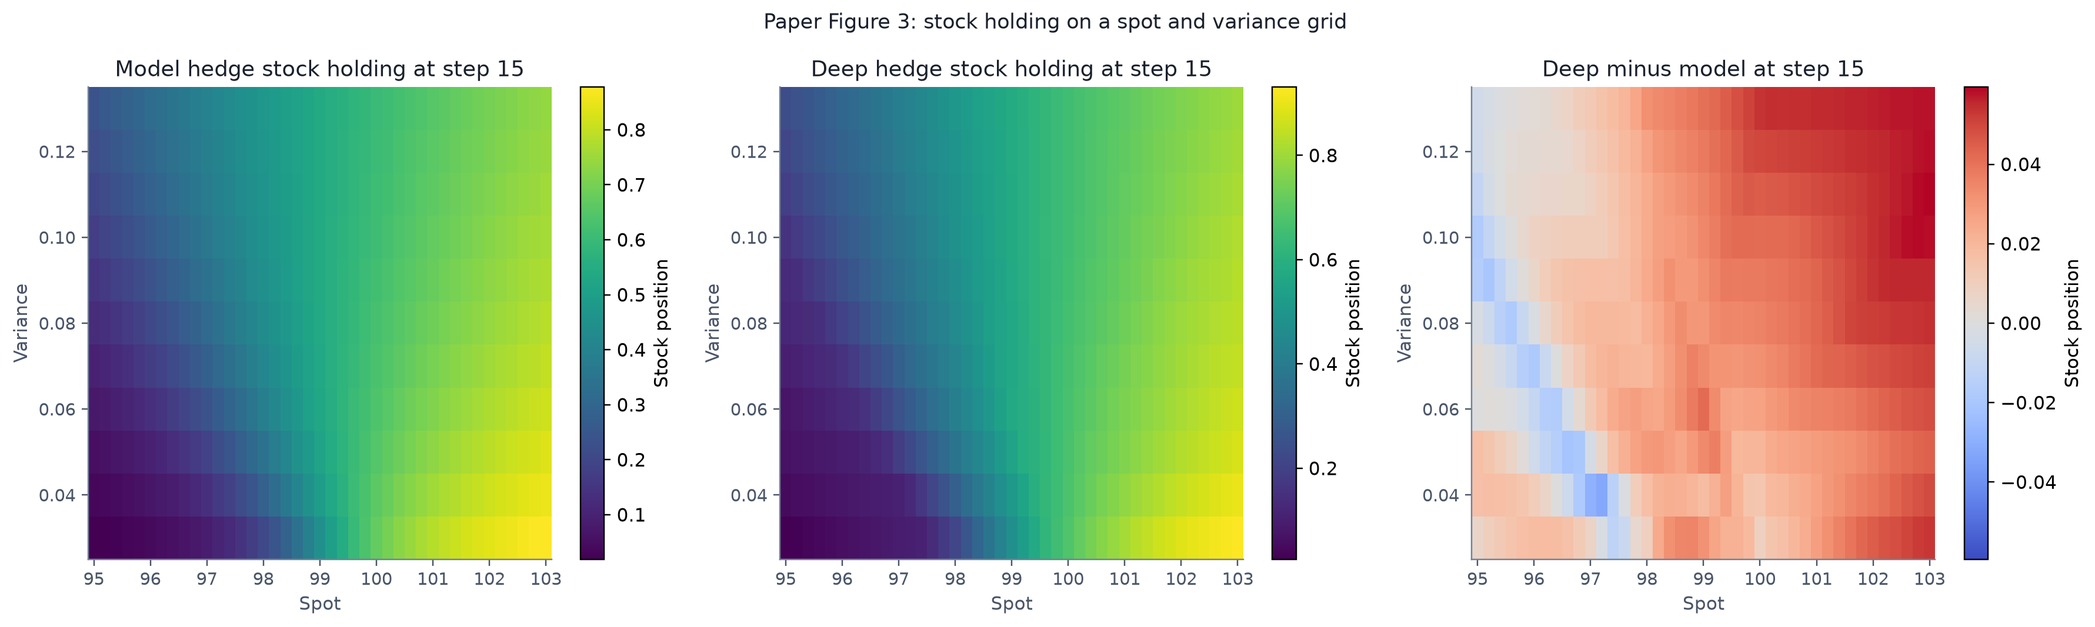
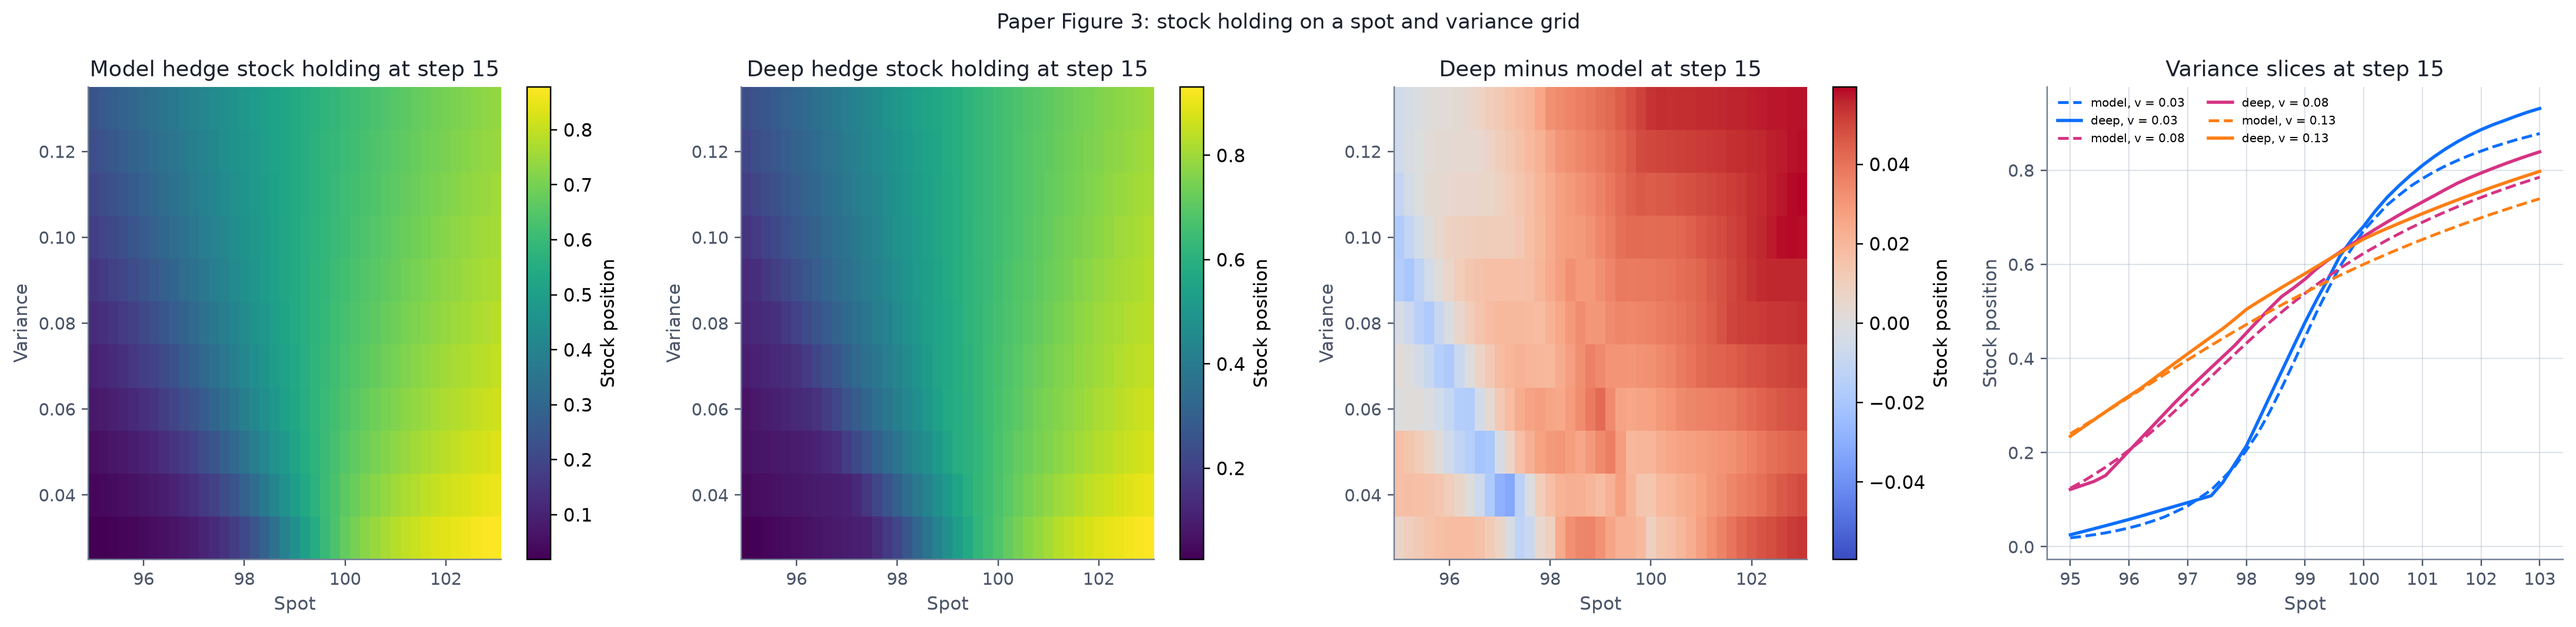
Make Figure 3 match its documented four panel layout
plot_heston_fig3 drew three panels while plot_heston_fig3_from_file drew
four, so the committed PNG and the JSON redraw disagreed and the
documented variance slice panel was missing from the tracked figure.
Both paths now draw the same four panels.

Correct the Figure 3 inventory row and the p_0 gap values, which still
quoted the pre-thread-pinning surface.

diff --git a/src/visualize.py b/src/visualize.py
@@ -1185,13 +1185,13 @@ def plot_heston_fig3(
             model_delta[i, j] = hedge._bilinear(
                 table, np.array([s_grid[i]]), np.array([v_grid[j]])
             )[0]
-    fig, axes = plt.subplots(1, 3, figsize=(16.4, 4.9))
+    fig, axes = plt.subplots(1, 4, figsize=(20.0, 4.9))
     panels = (
         (model_delta, "Model hedge stock holding", "viridis"),
         (deep_delta, "Deep hedge stock holding", "viridis"),
         (deep_delta - model_delta, "Deep minus model", "coolwarm"),
     )
-    for ax, (values, title, cmap) in zip(axes, panels):
+    for ax, (values, title, cmap) in zip(axes[:3], panels):
         if title.startswith("Deep minus"):
             lim = float(np.max(np.abs(values))) or 1.0
             image = ax.pcolormesh(s_grid, v_grid, values.T, cmap=cmap, shading="auto",
@@ -1203,6 +1203,21 @@ def plot_heston_fig3(
         ax.set_ylabel("Variance")
         ax.set_title(f"{title} at step {step}")
         _style(ax)
+    # Small multiples make the modest variance effect readable on the heatmap scale
+    ax = axes[3]
+    levels = (0.03, 0.08, 0.13)
+    colours = ("#0d6efd", "#d63384", "#fd7e14")
+    j_at = [int(np.argmin(np.abs(v_grid - level))) for level in levels]
+    for level, colour, j in zip(levels, colours, j_at):
+        ax.plot(s_grid, model_delta[:, j], color=colour, linewidth=1.6, linestyle="--",
+                label=f"model, v = {v_grid[j]:.2f}")
+        ax.plot(s_grid, deep_delta[:, j], color=colour, linewidth=1.8,
+                label=f"deep, v = {v_grid[j]:.2f}")
+    ax.set_xlabel("Spot")
+    ax.set_ylabel("Stock position")
+    ax.set_title(f"Variance slices at step {step}")
+    ax.legend(fontsize=6.6, frameon=False, ncol=2)
+    _style(ax)
     fig.suptitle("Paper Figure 3: stock holding on a spot and variance grid", fontsize=11.5,
                  color=TEXT_COLOR)
     fig.tight_layout()

diff --git a/PRELIMINARY_ANALYSIS.md b/PRELIMINARY_ANALYSIS.md
@@ -207,8 +207,8 @@ indifference price $p(Z)$ of the claim. So the entropic risk column below is not
 it is a price in the paper's sense. Two consequences are testable and both hold:
 
 - $p(Z) \geq \mathbb{E}[Z]$, which is Proposition 3.6(ii). In the Black-Scholes setting
-  $q = \mathbb{E}[Z] = 2.2872$ and the learned price at zero cost is $p_0 = 2.3603$, so the inequality
-  holds with a gap of 0.0731. In the Heston setting $q = 1.6918$ and $p_0 = 1.8023$, a gap of 0.1090.
+  $q = \mathbb{E}[Z] = 2.2872$ and the learned price at zero cost is $p_0 = 2.3602$, so the inequality
+  holds with a gap of 0.0730. In the Heston setting $q = 1.6918$ and $p_0 = 1.8023$, a gap of 0.1104.
 - The gap $p_0 - q$ is positive and not zero, because discrete hedging is not free. This is the
   discrete-time hedging error the paper's whole framework is built to price.
 
@@ -711,7 +711,7 @@ matches the contents of the results directory.
 | `cost_sensitivity_5seed.png` | CVaR 95 and CVaR 99 against the same cost grid for Deep Hedging, Black-Scholes and Leland | Deep Hedging dominates both benchmarks at every cost level and the advantage widens with cost, which is the ordering the paper predicts |
 | `cost_sensitivity_multiseed.png` | The project's own cost sensitivity over 5 seeds at 100,000 paths and 20 epochs, CVaR 95 and CVaR 99 with one standard deviation error bars | Deep Hedging matches the analytic deltas at zero cost (3.113 against 3.118, t 0.5) and beats Leland from 0.10 percent upward, reaching a CVaR 95 gap of 0.495 at t 10.4 at one percent |
 | `heston_fig2.png` | Terminal hedging error densities for the deep hedge and the analytic model hedge at $\alpha = 0.50$, 200,000 paths | Deep hedge CVaR 1.9630 against 1.9687 for the true model hedge. The two are statistically indistinguishable, which is the correct result for two instruments and no costs |
-| `heston_fig3.png` | Stock holding of the model hedge and the non-recurrent deep hedge at step 15 over a spot and variance grid, the deep minus model difference panel, and variance slices at 0.03, 0.08 and 0.13 | The learned surface reproduces the analytic one in shape and is slightly steeper in spot: the difference is -0.010 at spot 95, crosses zero near spot 96.2, and reaches +0.057 at spot 103. At the money the deep excess over the model rises from 0.021 at variance 0.03 to 0.034 at variance 0.13, so the variance state shifts the learned correction rather than the level |
+| `heston_fig3.png` | Stock holding of the model hedge and the non-recurrent deep hedge at step 15 over a spot and variance grid, the deep minus model difference panel, and variance slices at 0.03, 0.08 and 0.13 | The learned surface reproduces the analytic one in shape and is slightly steeper in spot: the difference is -0.001 at spot 95, crosses zero near spot 95.2, and reaches +0.054 at spot 103. At the money the deep excess over the model rises from 0.009 at variance 0.03 to 0.054 at variance 0.13, so the variance state shifts the learned correction rather than the level |
 | `heston_fig6.png` | The same two policies at $\alpha = 0.99$, each centred at its own risk measure | The more risk averse deep hedge has a heavier far tail but a better 99 percent average, 2.9750 against 3.9139 for the model hedge |
 | `heston_fig7.png` | Both policies centred at the model price $q = 1.6918$ | Confirms the improvement is not a centring artifact: at a common origin the deep hedge still has the smaller tail average |
 | `price_asymptotics_heston.png` | The Figure 10 experiment repeated under the paper's Heston model with two instruments | Fitted slope 0.6017 against $2/3$. The same regime, 9 percent below the Black-Scholes fit, and no bootstrap interval is quoted because 5 cost levels are too few |
